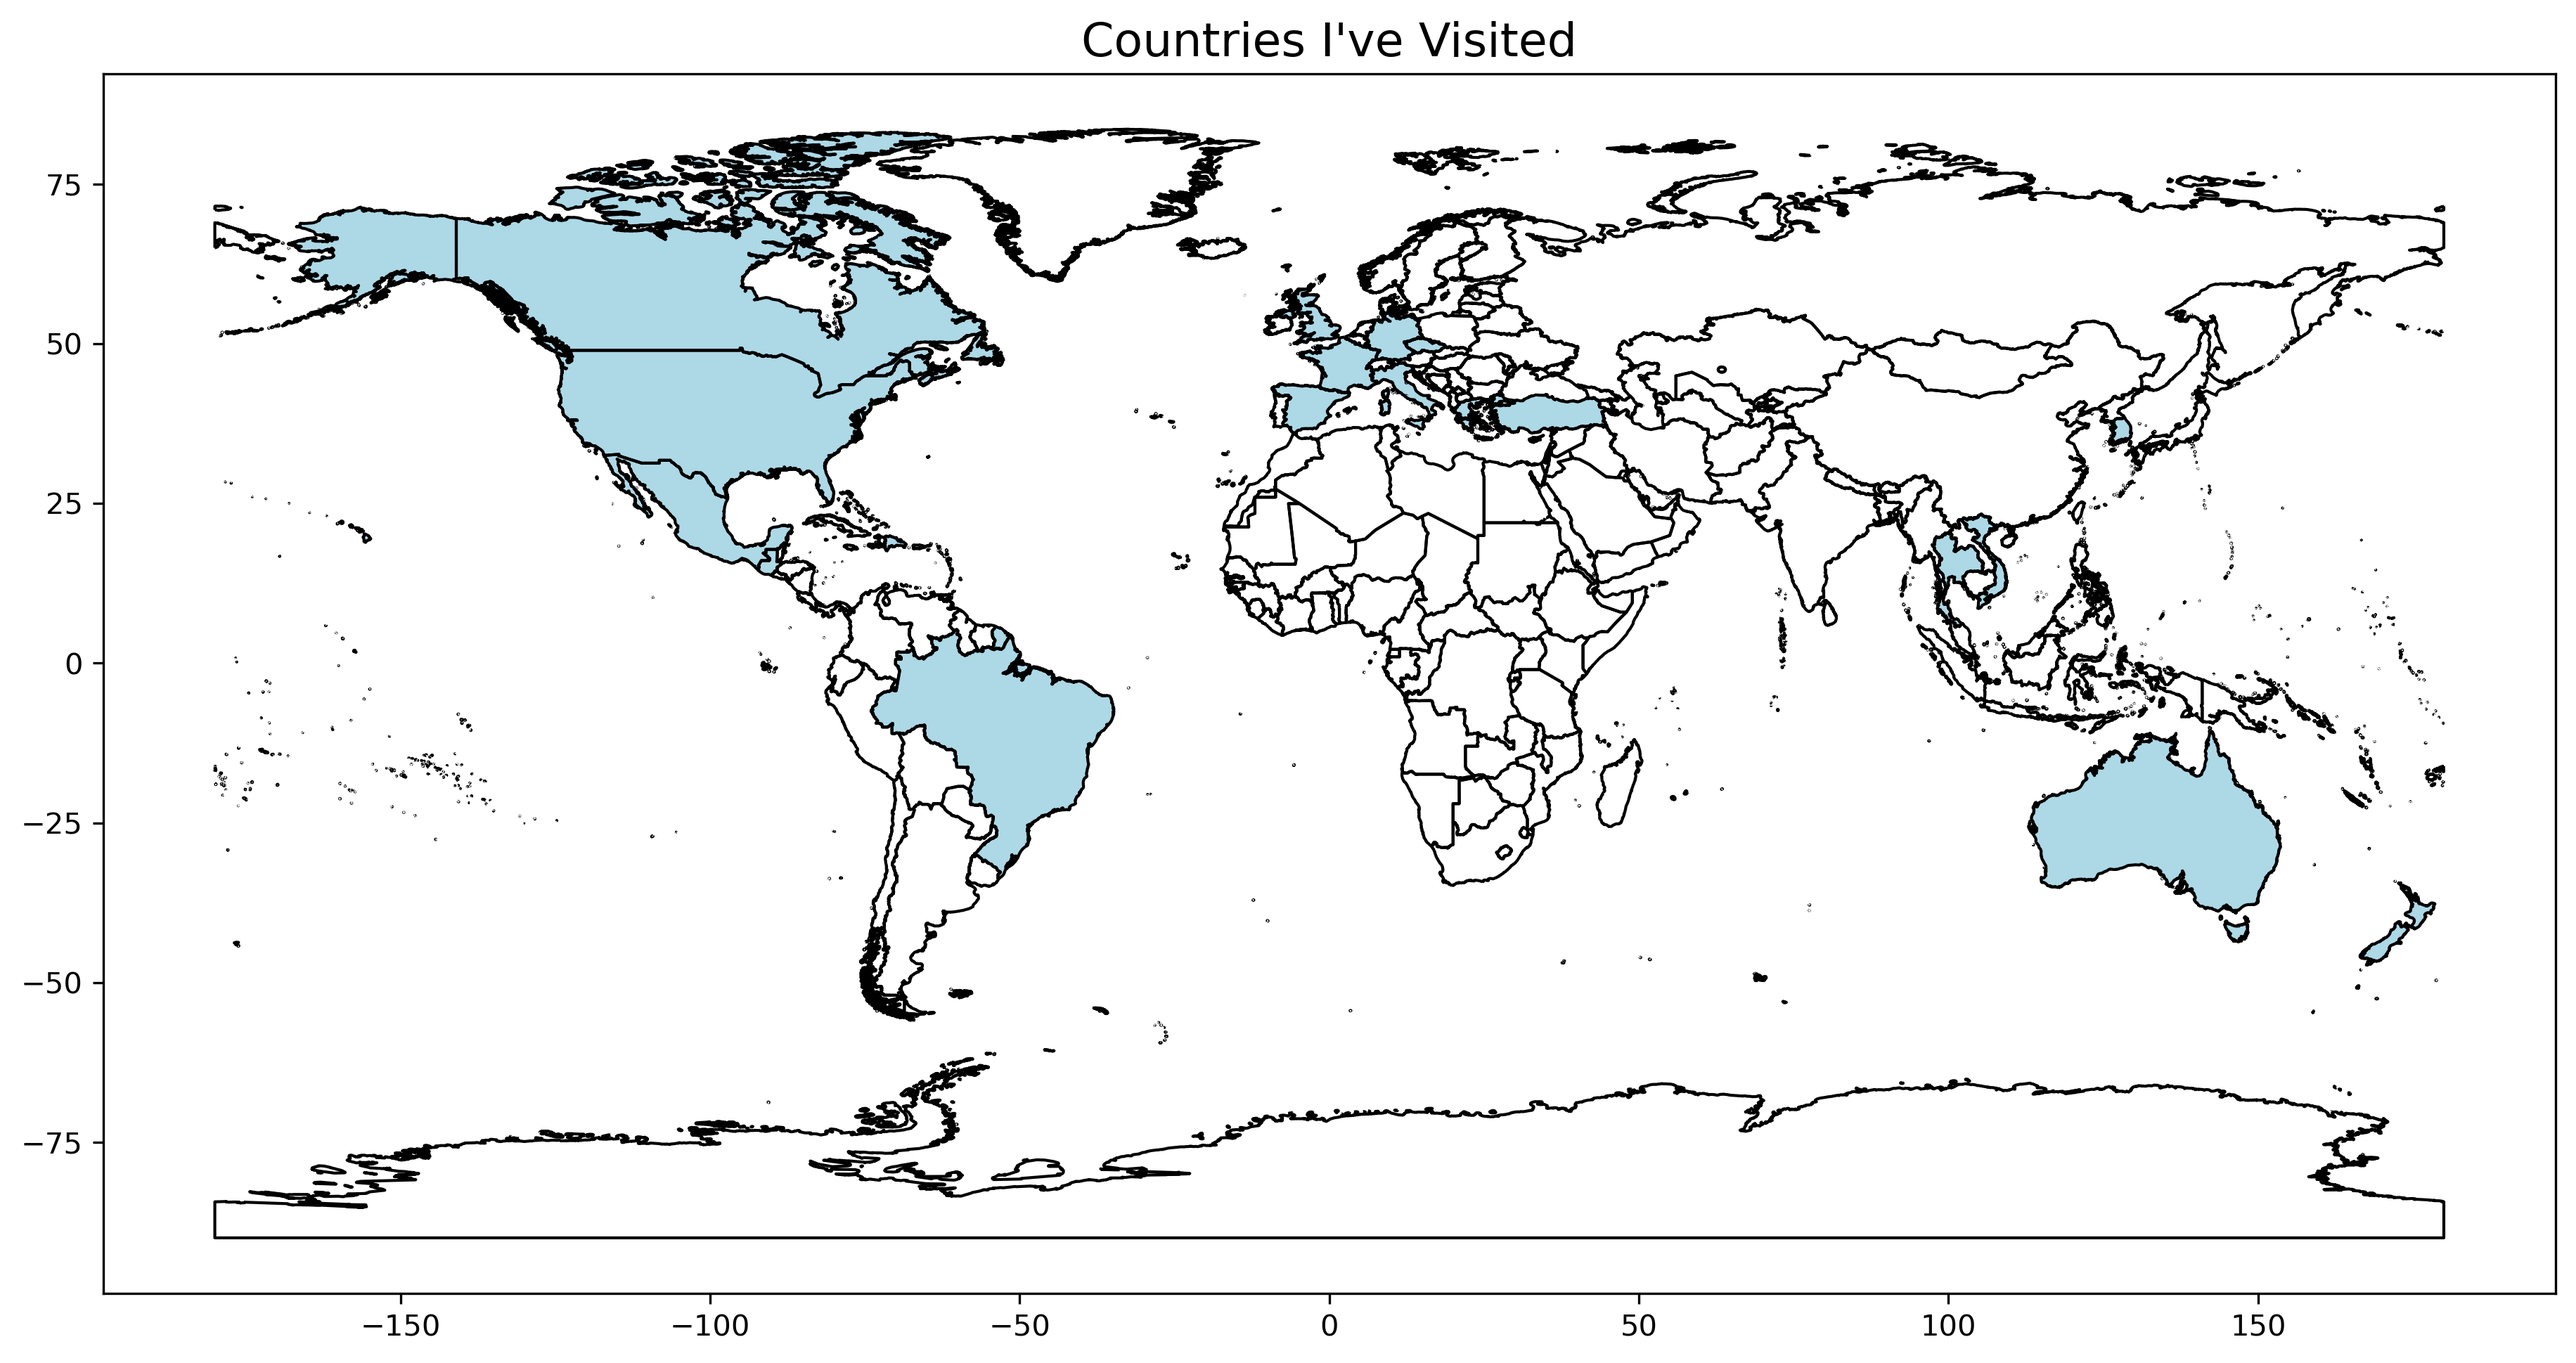
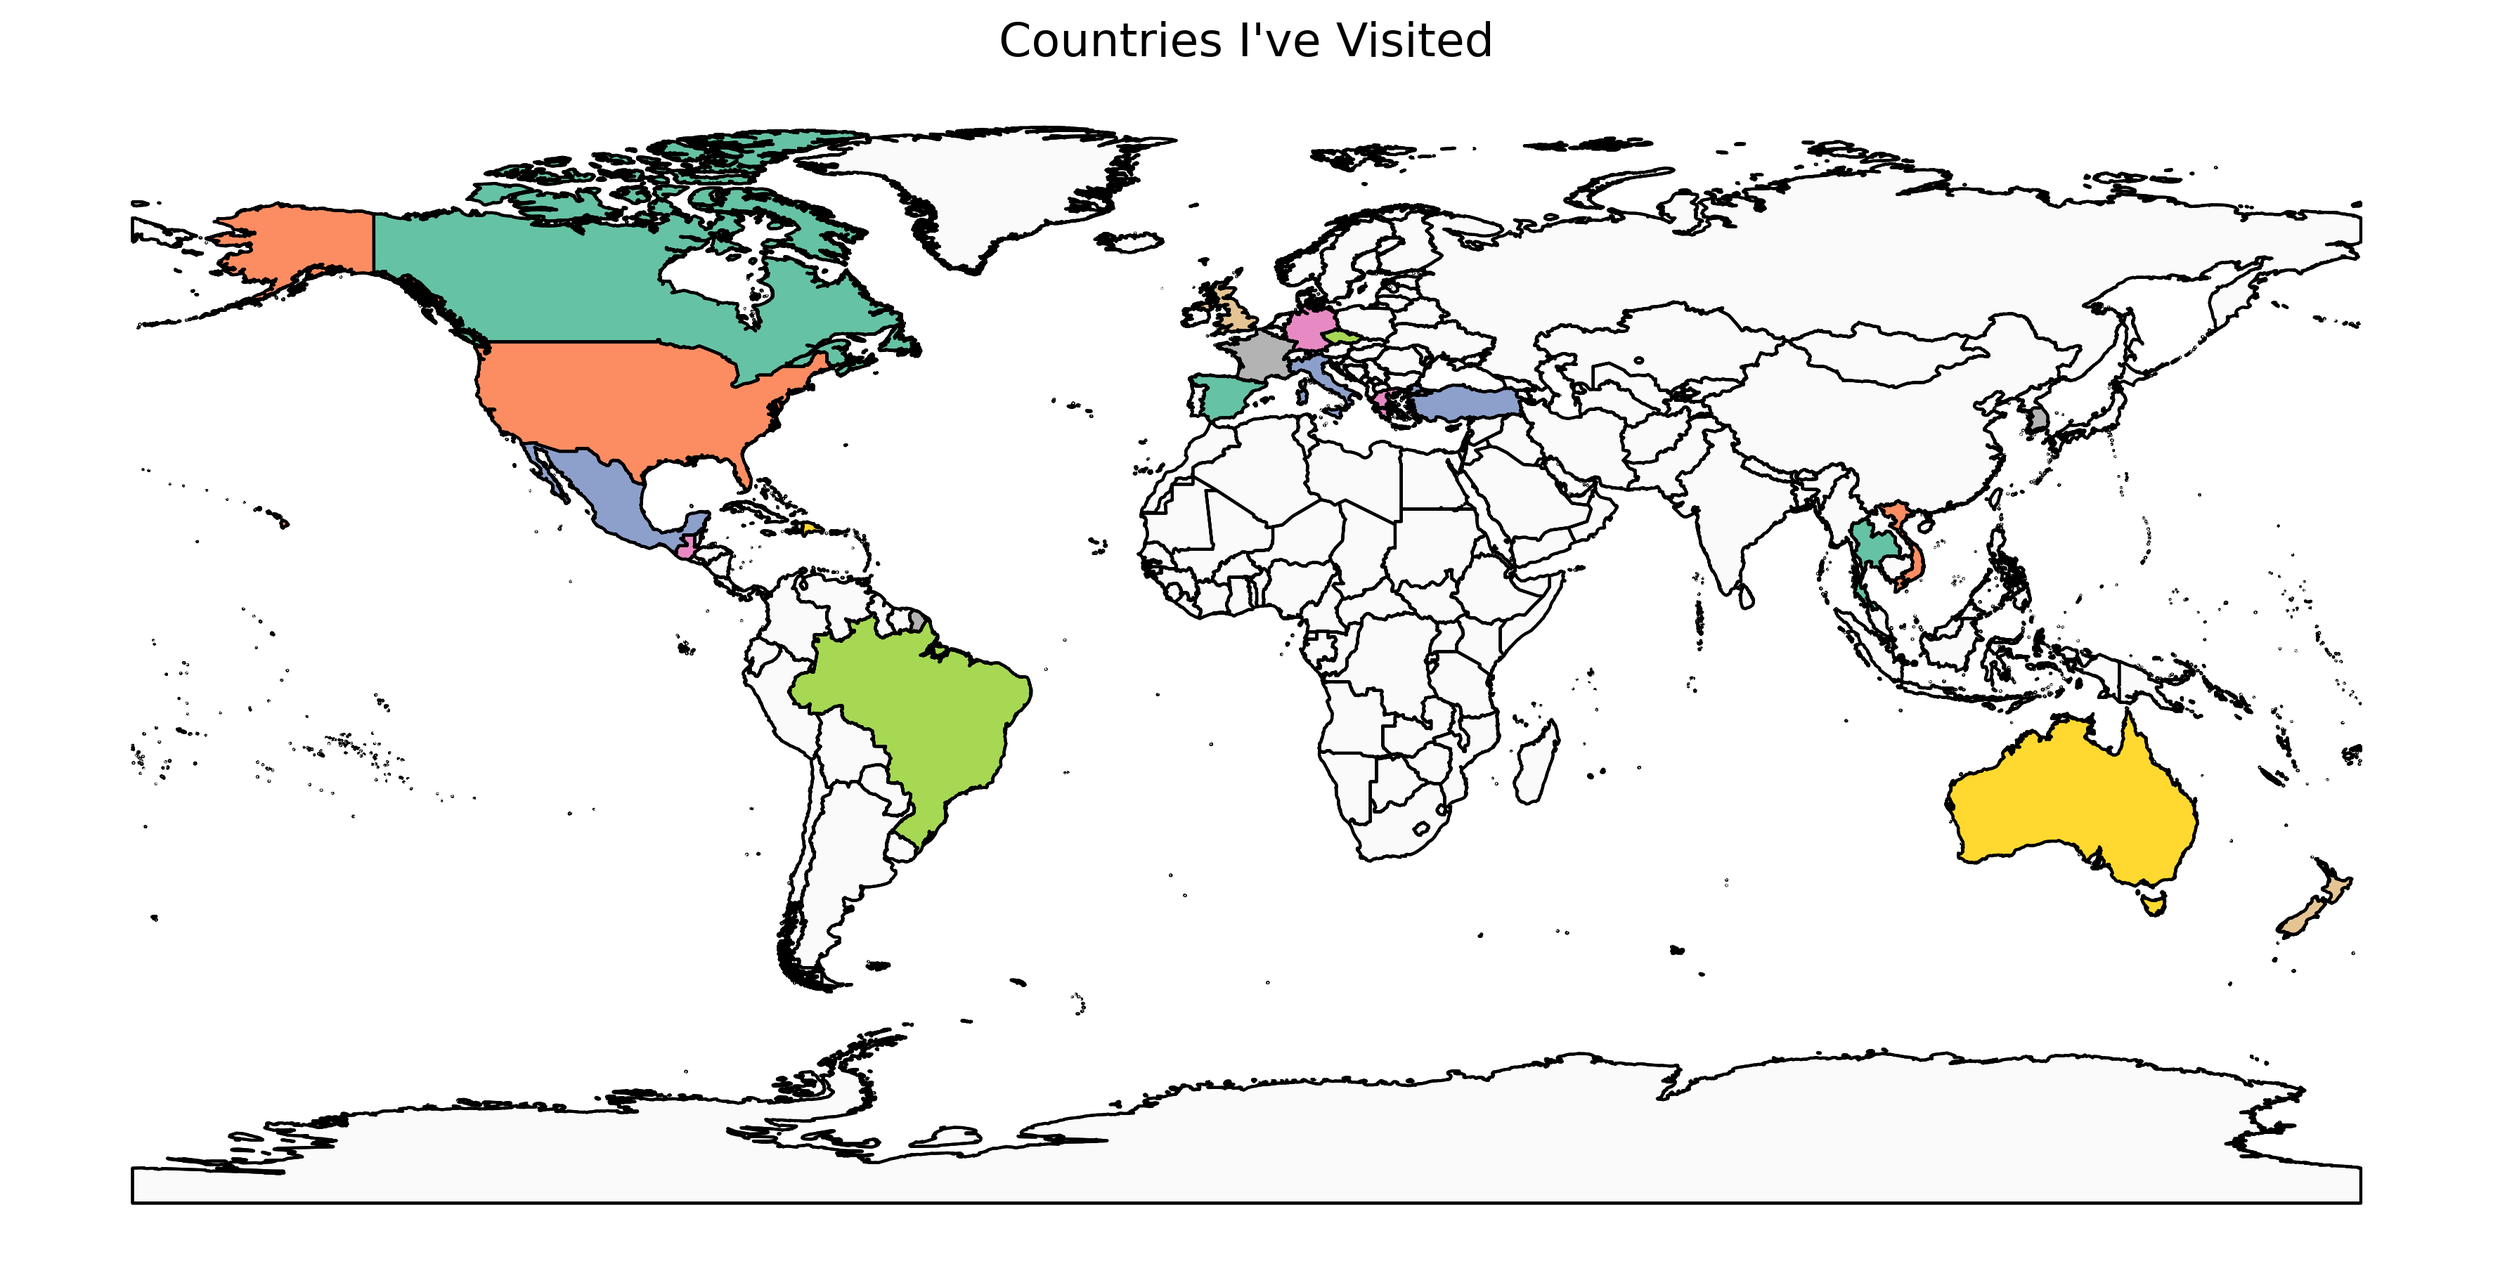
2024-09-12_20:04:28

diff --git a/_posts/2024-09-05-countries-i-ve-travelled-to.md b/_posts/2024-09-05-countries-i-ve-travelled-to.md
@@ -2,6 +2,7 @@
 title: "Countries I've Travelled To"
 tags:
   - Adventures
+  - Engineering
 header:
   teaser: /assets/images/2024-09-05-countries-i-ve-travelled-to/visited_countries.png
   og_image: /assets/images/2024-09-05-countries-i-ve-travelled-to/visited_countries.png
@@ -11,3 +12,108 @@ toc_sticky: true
 
 ![PIC](/assets/images/2024-09-05-countries-i-ve-travelled-to/visited_countries.png)
 
+## 🇨🇦 Canada
+## 🇺🇸 United States
+## 🇲🇽 Mexico
+## 🇬🇹 Guatemala
+## 🇧🇷 Brazil
+## 🇩🇴 Dominican Republic
+## 🇬🇧 United Kingdom
+## 🇫🇷 France
+## 🇪🇸 Spain
+## 🇲🇨 Monaco
+## 🇮🇹 Italy
+## 🇩🇪 Germany
+## 🇨🇿 Czechia
+## 🇦🇺 Australia
+## 🇳🇿 New Zealand
+## 🇰🇷 Korea, Republic of
+## 🇹🇭 Thailand
+## 🇻🇳 Viet Nam
+## 🇹🇷 Türkiye
+## 🇬🇷 Greece
+## 🇻🇦 Holy See (Vatican City State)
+
+
+# Python Visualization Script
+The following script is how I generated the image above from country codes.
+
+```python
+import os
+import random
+
+import geopandas as gpd
+import matplotlib.pyplot as plt
+import seaborn as sns
+
+# Path to your local shapefile
+shapefile_path = "./ne_10m_admin_0_countries/ne_10m_admin_0_countries.shp"
+
+# Load the local shapefile
+world = gpd.read_file(shapefile_path)
+
+# List of visited countries (ISO 3166-1 alpha-3 country codes)
+visited_countries = [
+    "CAN",
+    "USA",
+    "MEX",
+    "GTM",
+    "BRA",
+    "DOM",
+    "GBR",
+    "FRA",
+    "ESP",
+    "MCO",
+    "ITA",
+    "DEU",
+    "CZE",
+    "AUS",
+    "NZL",
+    "KOR",
+    "THA",
+    "VNM",
+    "TUR",
+    "GRC",
+    "VAT",
+]
+
+# Create a new column 'visited' to mark visited countries
+world["visited"] = world["ADM0_A3"].apply(
+    lambda x: "Visited" if x in visited_countries else "Not Visited"
+)
+
+# Create a unique color for each visited country
+# Get a seaborn palette with enough colors for the visited countries
+palette = sns.color_palette("Set2", len(visited_countries))
+
+# Assign each visited country a color from the palette
+visited_colors = {country: palette[i] for i, country in enumerate(visited_countries)}
+
+# Create a new column to assign colors to visited countries
+world["color"] = world["ADM0_A3"].apply(
+    lambda x: visited_colors.get(x, "#fafafa")
+)  # Default non-visited countries to gray
+
+# Plot the map
+fig, ax = plt.subplots(1, 1, figsize=(15, 10))
+
+# Plot country borders
+world.boundary.plot(ax=ax, linewidth=1, color="black")
+
+# Plot visited countries with their assigned colors
+world.plot(ax=ax, color=world["color"], edgecolor="black", legend=True)
+
+# Add title
+ax.set_title("Countries I've Visited", fontsize=16)
+ax.axis("off")
+
+output_image_path = (
+    "assets/images/2024-09-05-countries-i-ve-travelled-to/visited_countries.png"
+)
+# Save the map as a PNG file
+plt.savefig(
+    os.path.join("../", output_image_path),
+    bbox_inches="tight",
+    dpi=300,
+)
+```
